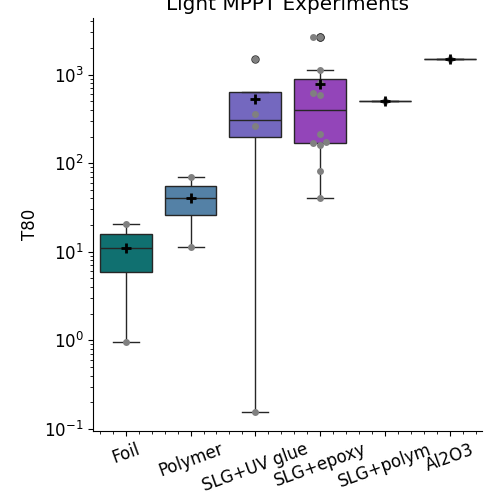
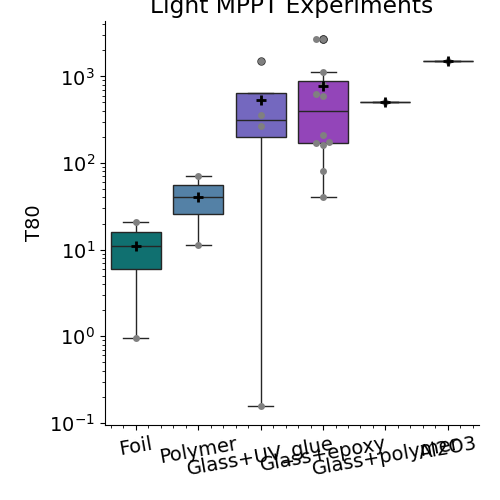
final version

diff --git a/Provskite_Encapsulation_Comparison.py b/Provskite_Encapsulation_Comparison.py
@@ -229,12 +229,13 @@ if __name__ == '__main__':
                             Glass_epoxy_light['logT80'].reset_index(drop=True),Glass_epoxy_MPPT['logT80'].reset_index(drop=True)]  # contains the logT80 of all the subdivisions
     # finished preparing data for all the graphs
     frequency_table = []
-    frequency_table.append(['', 'Foil','Polymer','Glass UV glue','Glass epoxy','Glass butyl rubber','Glass Polymer','Al2O3'])
-    my_colors = {'Foil': 'teal', 'Polymer': 'steelblue', 'SLG+UV glue': 'slateblue', 'SLG+epoxy':'darkorchid','SLG+but_rub':'mediumvioletred' ,'SLG+polym': 'sienna', 'Al2O3':'darkkhaki' }
+    frequency_table.append(['', 'Foil','Polymer','Glass+UV_glue','Glass+epoxy','Glass+but_rubber','Glass+polymer','Al2O3'])
+    my_colors = {'Foil': 'teal', 'Polymer': 'steelblue', 'Glass+UV_glue': 'slateblue', 'Glass+epoxy': 'darkorchid',
+                 'Glass+but_rubber': 'mediumvioletred', 'Glass+polymer': 'sienna', 'Al2O3': 'darkkhaki' }
     for i in range(6): # runs on all the sub-divisions
         data_for_box_plot = pd.concat([Foils_T80[i],Polymer_T80[i], Glass_UV_glue_T80[i], Glass_epoxy_T80[i],Glass_butyl_rubber_T80[i],Glass_polymer_T80[i],Al2O3_T80[i]], axis =1)  # horizontal_concat
-        data_for_box_plot=data_for_box_plot.set_axis(["Foil","Polymer","SLG+UV glue","SLG+epoxy","SLG+but_rub", "SLG+polym", "Al2O3"], axis="columns")
-        plt.rcParams.update({'font.size': 12})
+        data_for_box_plot=data_for_box_plot.set_axis(["Foil","Polymer","Glass+UV_glue","Glass+epoxy","Glass+but_rubber","Glass+polymer", "Al2O3"], axis="columns")
+        plt.rcParams.update({'font.size': 14})
         seaborn.catplot(x="variable", y="value", data=pd.melt(data_for_box_plot.dropna(how= "all", axis=1)), kind="box",palette=my_colors)
         seaborn.swarmplot(x='variable', y='value', data=pd.melt(data_for_box_plot.dropna(how= "all", axis=1)), color="gray")
         seaborn.pointplot(data=pd.melt(data_for_box_plot.dropna(how= "all", axis=1)), x="variable", y="value", estimator=np.mean,
@@ -242,7 +243,7 @@ if __name__ == '__main__':
         plt.ylabel("T80")
         plt.yscale('log')
         plt.minorticks_on()
-        plt.xticks(rotation=20)
+        plt.xticks(rotation=10)
         plt.xlabel("")
         plt.title(Graph_titles[i])
         frequency_table.append(['num of experiments'+Graph_titles[i],len(Foils_logT80[i]), len(Polymer_logT80[i]), len(Glass_UV_glue_logT80[i]), len(Glass_epoxy_logT80[i]),len(Glass_butyl_rubber_logT80[i]), len(Glass_polymer_logT80[i]),
